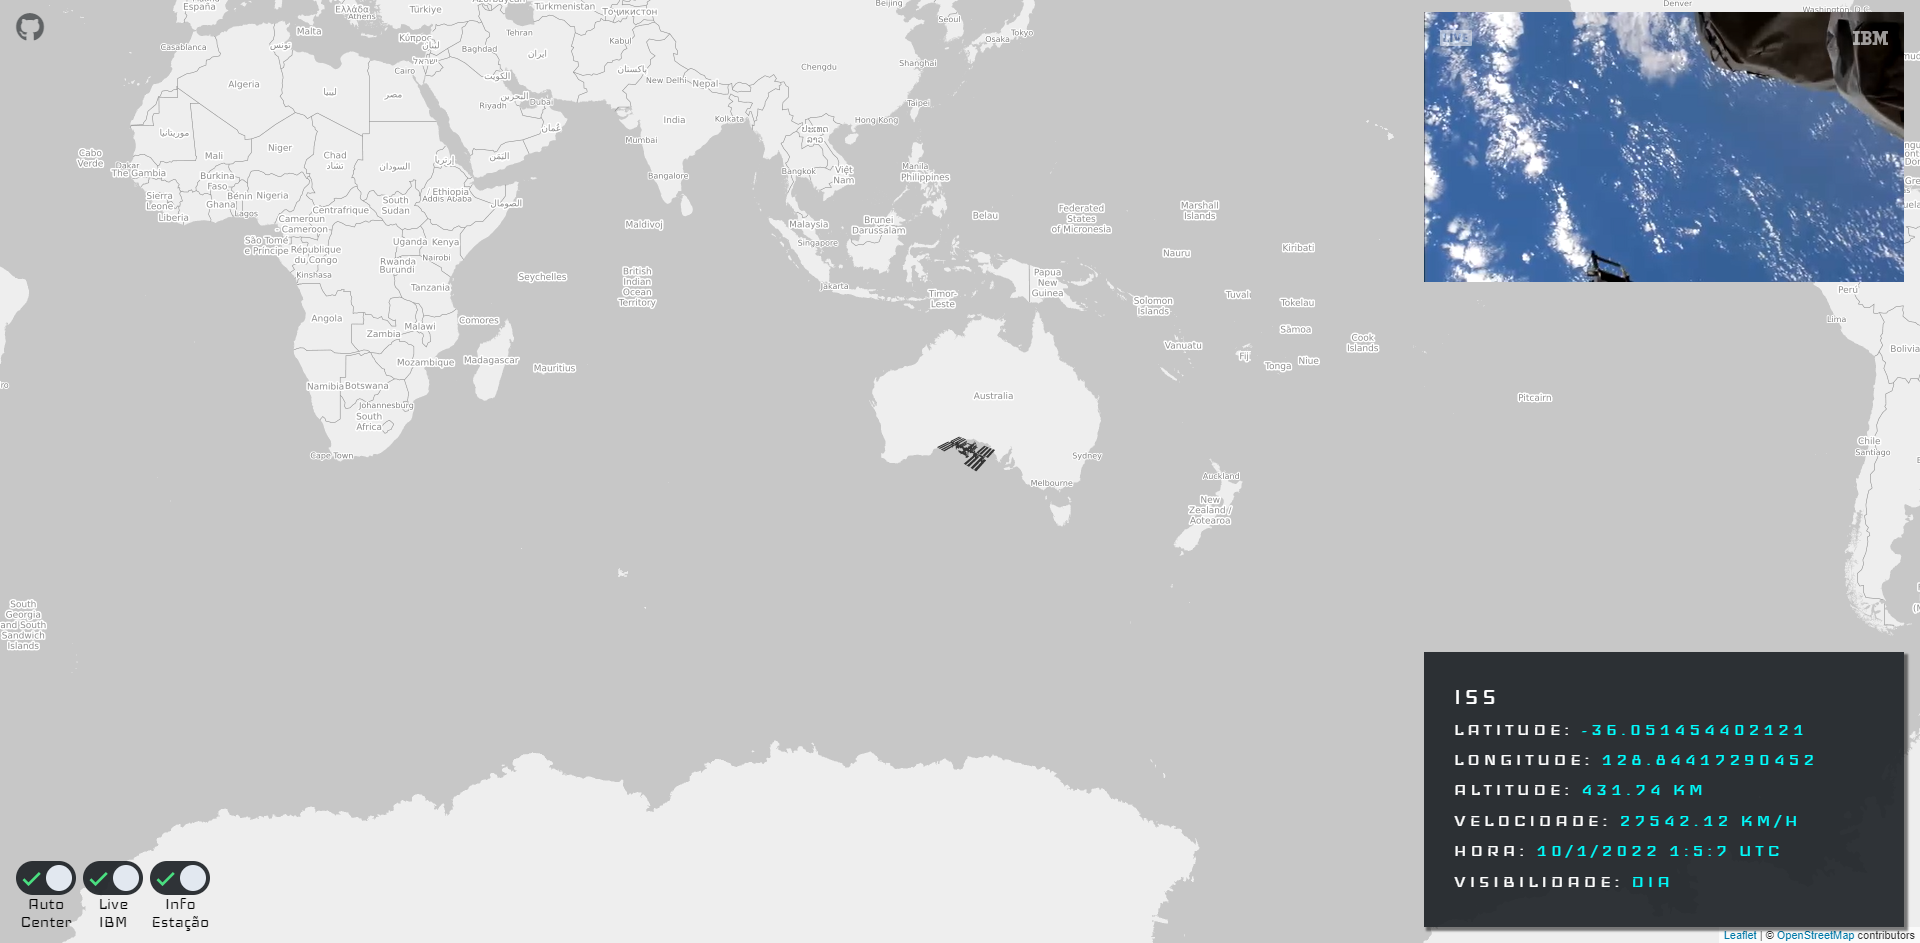
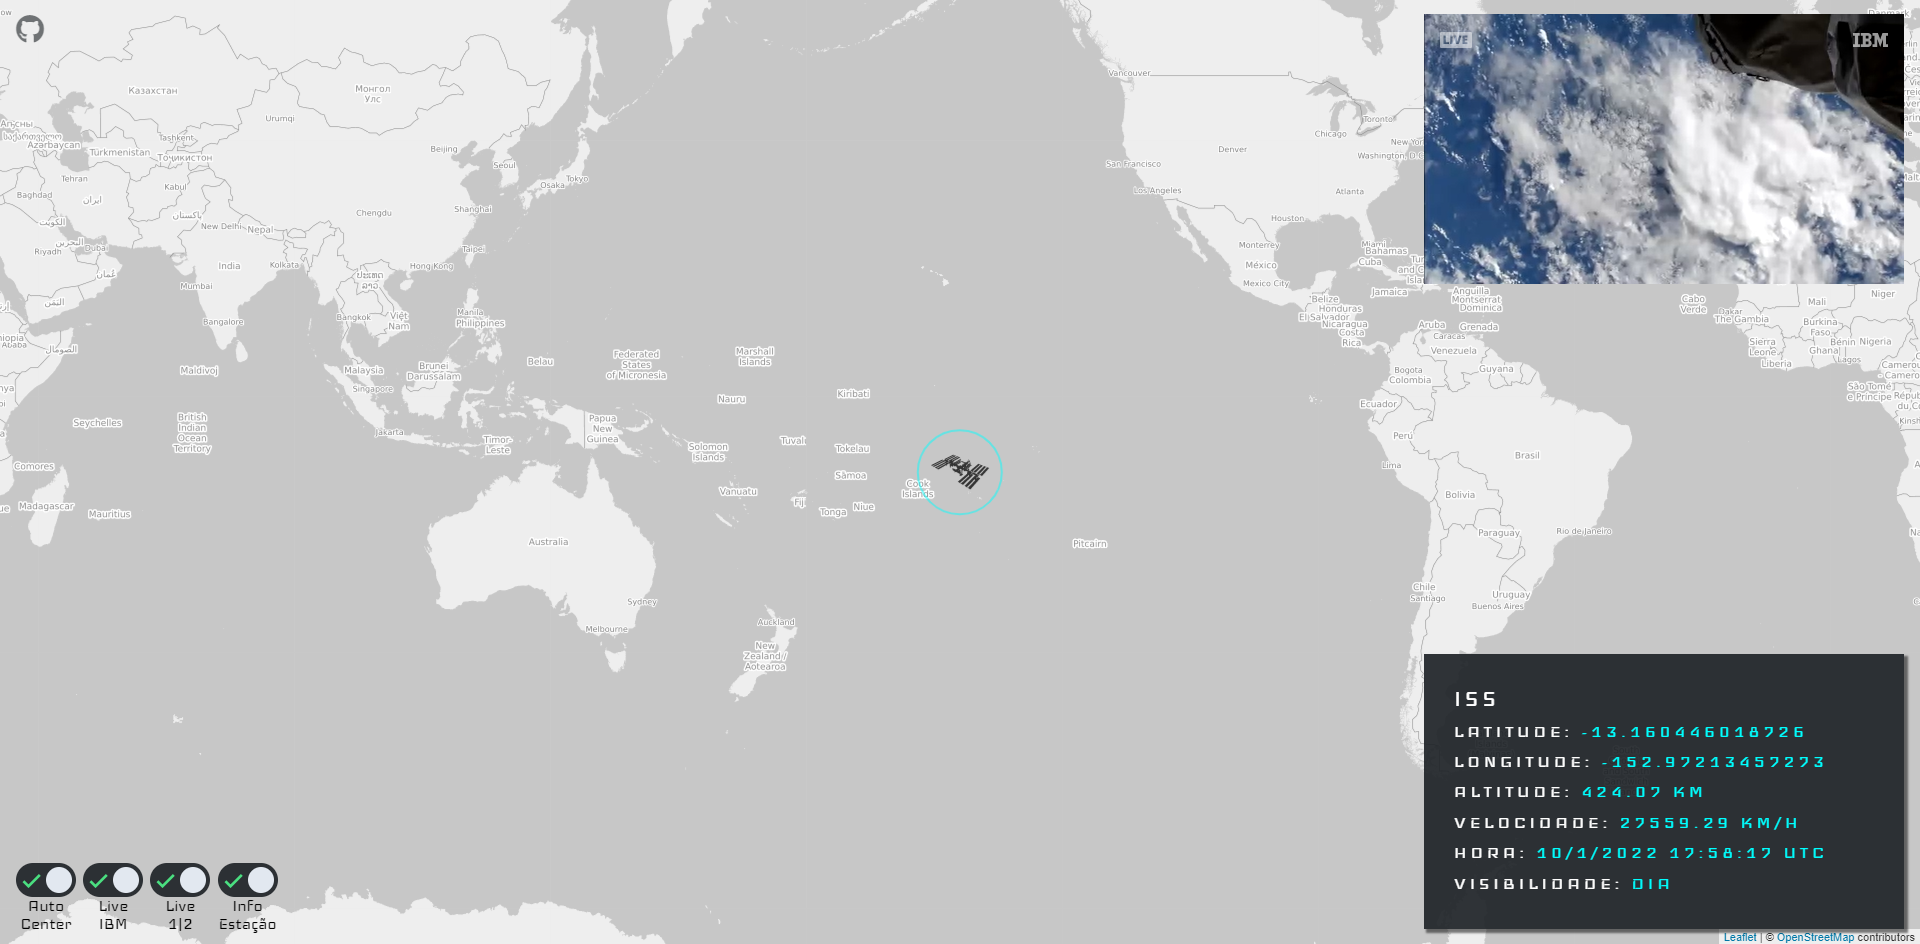
:books: Readme novas imagens

diff --git a/README.md b/README.md
@@ -7,7 +7,7 @@
 <div align="center" id="header">
 
   <a href="https://www.nasa.gov/mission_pages/station/main/index.html">
-    <img src="/assets/LogoISS.png" alt="Logo" width="100">
+    <img src="/assets/LogoISS.png" alt="Logo" width="150">
   </a>
   <h3 align="center">ISS location</h3>
   <p align="center">
@@ -52,7 +52,7 @@
 ## About the project
 
 <div align="center">
-  <img src="/assets/Desktop.png" width=80%>
+  <img src="/assets/Desktop.png" width=90%>
 <br><br>
 
   [![Site][Site-shields]][Site-link]
@@ -76,8 +76,8 @@
 
 <div>
 
-  <img src="/assets/Tablet.png" width="59.3%">
-  <img src="/assets/Mobile.png" width="25%">
+  <img src="/assets/Tablet.png" width="50%">
+  <img src="/assets/Mobile.png" width="14%">
 
 </div>
 
@@ -102,8 +102,8 @@
 ## Implementation ideas
 
 - [x] Auto Center (on/off)
+- [x] Two IBM cameras
 - [ ] Pause when closing video
-- [ ] Two IBM cameras
 
 
 
